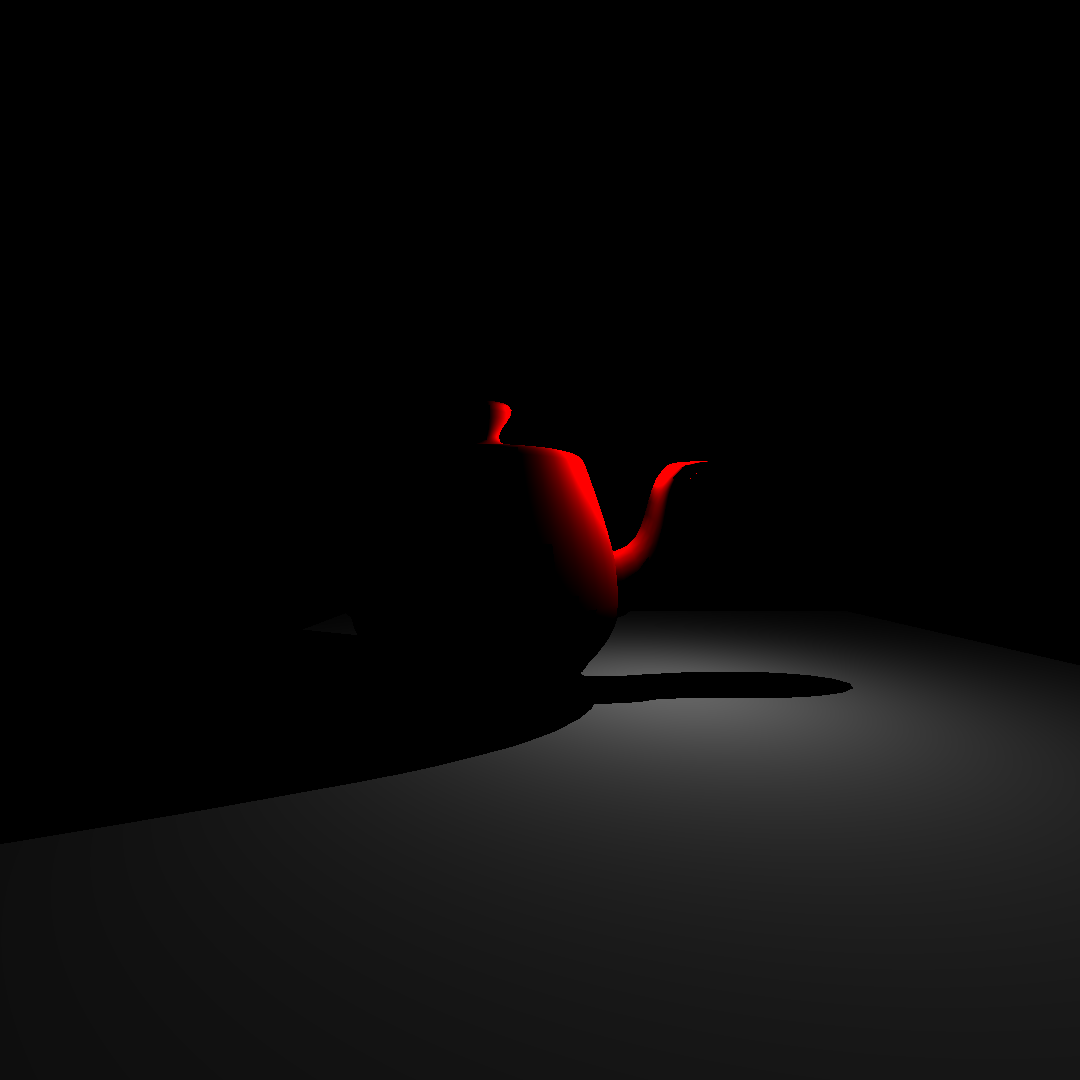
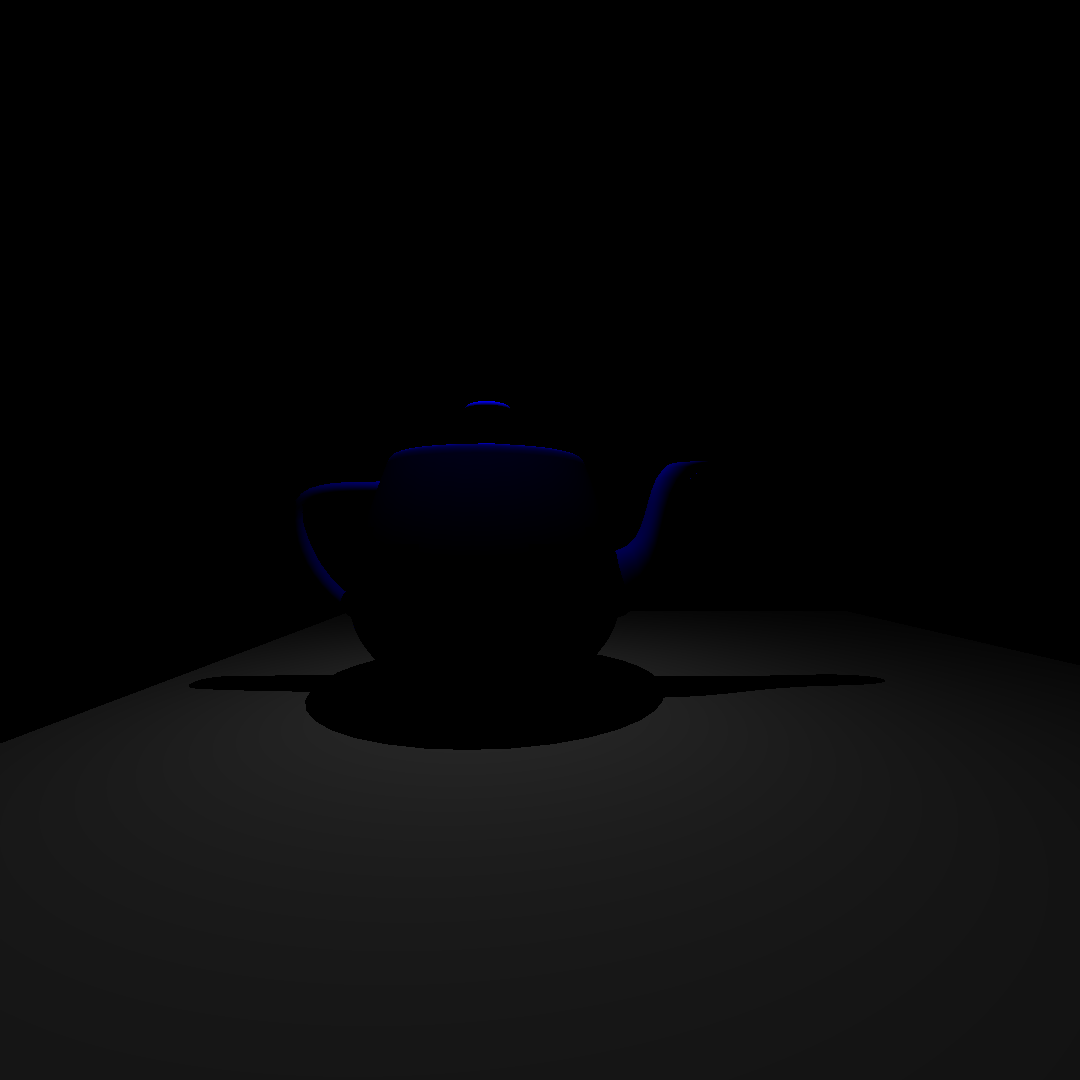
Fix shadow detection and update scene
Correct shadow logic in Raytracer class: add an inShadow flag, break out of the object loop when a blocker is found, and skip lighting for that light.

diff --git a/src/up/raytracer/render/Raytracer.java b/src/up/raytracer/render/Raytracer.java
@@ -138,6 +138,7 @@ public class Raytracer{
         for (Light light : lights) {
             Vector3D L = light.getDirectionAt(hit.getPosition()).negate();
             double NdotL = N.dot(L);
+            boolean inShadow = false;
 
             if (NdotL <= 0) continue;
 
@@ -149,9 +150,11 @@ public class Raytracer{
                 Intersection shadowHit = obj.calculateIntersection(shadowRay);
                 //set 0.001 as epsilon to avoid self-intersections
                 if (shadowHit != null && shadowHit.getDistance() > 0.001) {
-                   continue;
+                    inShadow = true;
+                    break;
                 }
             }
+            if (inShadow) continue;
 
 
             Color  lc = light.getColor();
@@ -160,6 +163,7 @@ public class Raytracer{
             g += (lc.getGreen() / 255.0) * (objectColor.getGreen() / 255.0) * li * NdotL;
             b += (lc.getBlue()  / 255.0) * (objectColor.getBlue()  / 255.0) * li * NdotL;
         }
+
 
         return new Color(clamp01(r), clamp01(g), clamp01(b));
     }

diff --git a/src/up/raytracer/Main.java b/src/up/raytracer/Main.java
@@ -18,11 +18,11 @@ public class Main {
         Camera camera = new Camera(new Vector3D(0.0, -0.15, -1.2), 1080, 1080, 90, 0.1, 100.0);
         Scene  scene  = new Scene(camera, Color.BLACK);
 
-        scene.addLight(new PointLight(Color.white, 9.0, new Vector3D(2, 2, 7)));
+        scene.addLight(new PointLight(Color.white, 10.0, new Vector3D(-0.8, 5, 6.4)));
 
         for (Triangle t : OBJReader.load(
                 "assets/utah_teapot2.obj", //render a new obj because why not
-                new Color(255, 0, 0),
+                new Color(0, 0, 255),
                 new Vector3D(-0.8, -2.05, 7.1),
                 1.0
                 )){
